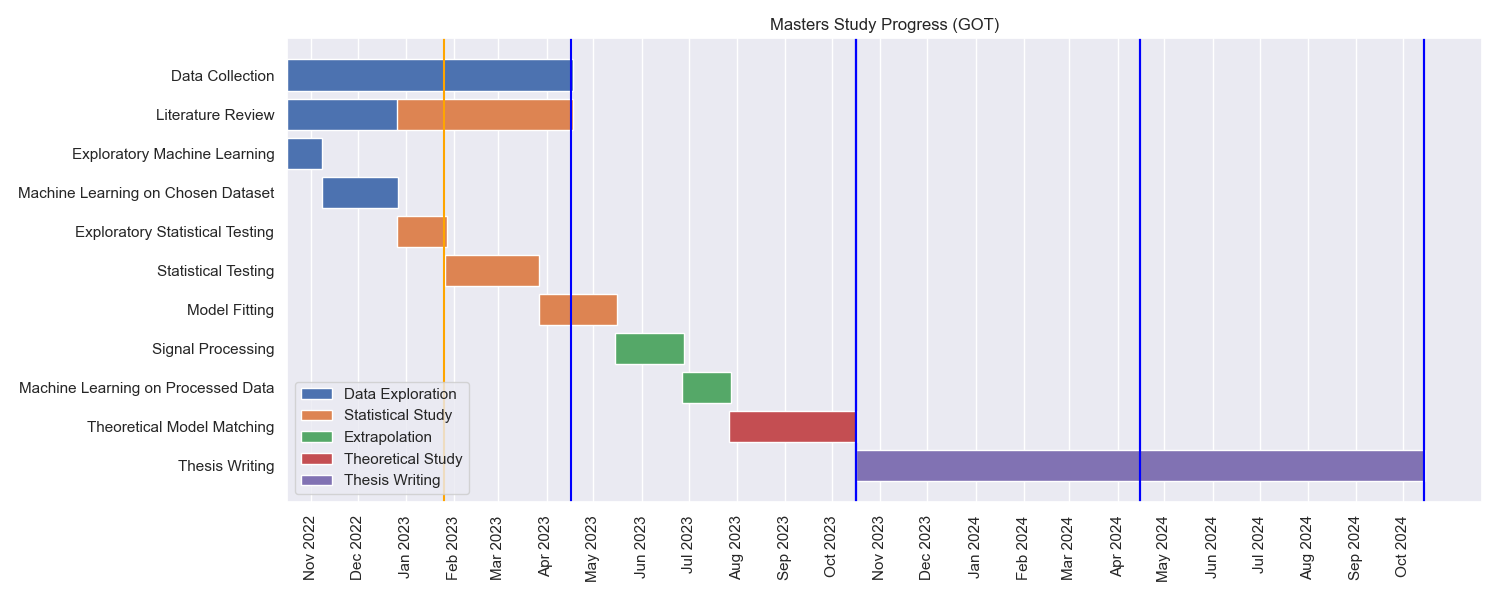
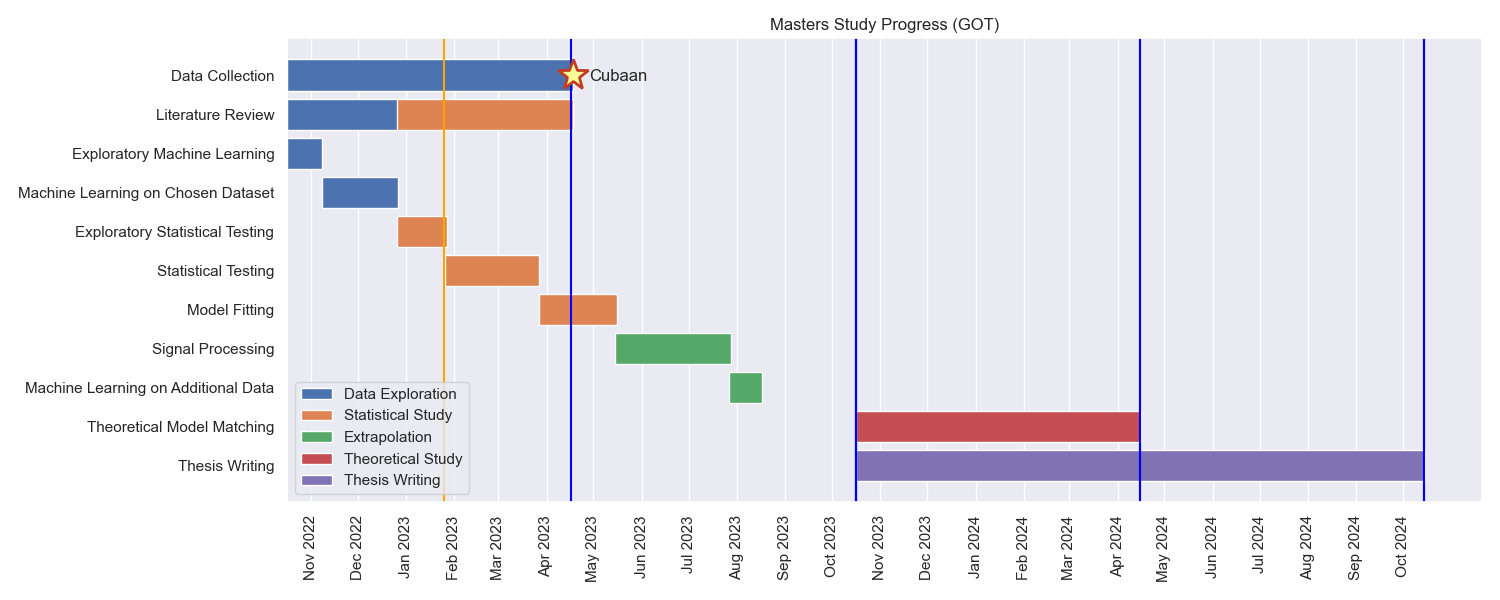
⚙ FIX: Gantt chart dep + milestones

Changed region(s): [[0.4293, 0.54, 0.7667, 0.75], [0.0, 0.63, 0.184, 0.66], [0.368, 0.09, 0.4293, 0.15]]

diff --git a/sarjana/scripts/gantt.py b/sarjana/scripts/gantt.py
@@ -10,20 +10,13 @@ import datetime as dt
 
 sns.set_theme()
 
-progress_file = Path(".", "data", "meta", "progress-1y.csv")
-progress = pd.read_csv(progress_file)
-
-progress_file_got = Path(".", "data", "meta", "progress-got.csv")
-progress_got = pd.read_csv(progress_file_got)
-
-milestone_file = Path(".", "data", "meta", "milestones.csv")
-milestones = pd.read_csv(milestone_file, parse_dates=["date"])
-
 
 def generate_gantt(
     progress: pd.DataFrame,
     label: Optional[str] = None,
     milestones: Optional[pd.DataFrame] = None,
+    show: bool = False,
+    save: bool = False,
 ) -> None:
     progress["start"] = pd.to_datetime(progress["start"])
     progress["end"] = pd.to_datetime(progress["end"])
@@ -44,10 +37,6 @@ def generate_gantt(
     progress.loc[:, ["rel_start"]] = progress["start"].apply(
         lambda x: (x - thesis_start).days
     )
-    if milestones is not None:
-        milestones.loc[:, ["rel_date"]] = milestones["date"].apply(
-            lambda x: (x - thesis_start).days
-        )
 
     # Create custom x-ticks and x-tick labels
     x_ticks = [i for i in range(thesis_duration + 1)]
@@ -60,9 +49,10 @@ def generate_gantt(
 
     now = (pd.Timestamp.today() - thesis_start).days
 
+    palette = sns.color_palette()
+
     legend_colors = {
-        phase: sns.color_palette()[idx]
-        for idx, phase in enumerate(progress["phase"].unique())
+        phase: palette[idx] for idx, phase in enumerate(progress["phase"].unique())
     }
 
     progress["color"] = [legend_colors[key] for key in progress["phase"]]
@@ -81,9 +71,6 @@ def generate_gantt(
     )
     plt.gca().invert_yaxis()
     plt.axvline(x=now, color="orange")
-    if milestones is not None:
-        for date in milestones["rel_date"]:
-            plt.axvline(x=date, color="blue")
     plt.xticks(ticks=tick_interval, labels=tick_labels, rotation=90)
     plt.grid(axis="y")
 
@@ -93,18 +80,74 @@ def generate_gantt(
     ]
     plt.legend(handles=legend_elems)
 
+    if milestones is not None:
+        milestones.loc[:, ["rel_date"]] = milestones["date"].apply(
+            lambda x: (x - thesis_start).days
+        )
+        locations = [3, 4, 6, 7]
+        idx = 0
+        thesis_writing_location = len(progress["task"].unique()) - 1
+        for date, name in zip(milestones["rel_date"], milestones["name"]):
+            plt.plot(
+                date,
+                locations[idx],
+                marker="*",
+                color="#fdfd96",
+                markersize=23,
+                markeredgecolor="#c23b23",
+                markeredgewidth=2,
+            )
+            center = int((len(name) * 5) / 2)
+            plt.text(
+                date - center,
+                locations[idx] - 0.7,
+                name,
+            )
+            idx += 1
+
+    # progress["task"].index
+    # TODO Milestones
+    # plt.text(
+    #     progress["rel_start"][0] + progress["duration"][0] + 10,
+    #     progress["task"].index[0] + 0.15,
+    #     "Cubaan",
+    # )
+    # plt.plot(
+    #     progress["rel_start"][0] + progress["duration"][0],
+    #     progress["task"].index[0],
+    #     marker="*",
+    #     color="#fdfd96",
+    #     markersize=23,
+    #     markeredgecolor="#c23b23",
+    #     markeredgewidth=2,
+    # )
+
     plt.tight_layout()
 
-    if label is not None:
-        plt.savefig(
-            Path(
-                ".", "_assets", "gantt-chart-{}.png".format("-".join(label.split(" ")))
+    if show:
+        plt.show()
+
+    if save:
+        if label is not None:
+            plt.savefig(
+                Path(
+                    ".",
+                    "_assets",
+                    "gantt-chart-{}.png".format("-".join(label.split(" "))),
+                )
             )
-        )
-    else:
-        plt.savefig(Path(".", "_assets", "gantt-chart.png"))
+        else:
+            plt.savefig(Path(".", "_assets", "gantt-chart.png"))
 
 
 if __name__ == "__main__":
+    progress_file = Path("..", "..", "data", "meta", "progress-1y.csv")
+    progress = pd.read_csv(progress_file)
+
+    progress_file_got = Path("..", "..", "data", "meta", "progress-got.csv")
+    progress_got = pd.read_csv(progress_file_got)
+
+    milestone_file = Path("..", "..", "data", "meta", "milestones.csv")
+    milestones = pd.read_csv(milestone_file, parse_dates=["date"])
     generate_gantt(progress, milestones=None)
     generate_gantt(progress_got, label="GOT", milestones=milestones)

diff --git a/sarjana/scripts/__init__.py b/sarjana/scripts/__init__.py
@@ -1,0 +1,1 @@
+from . import gantt
